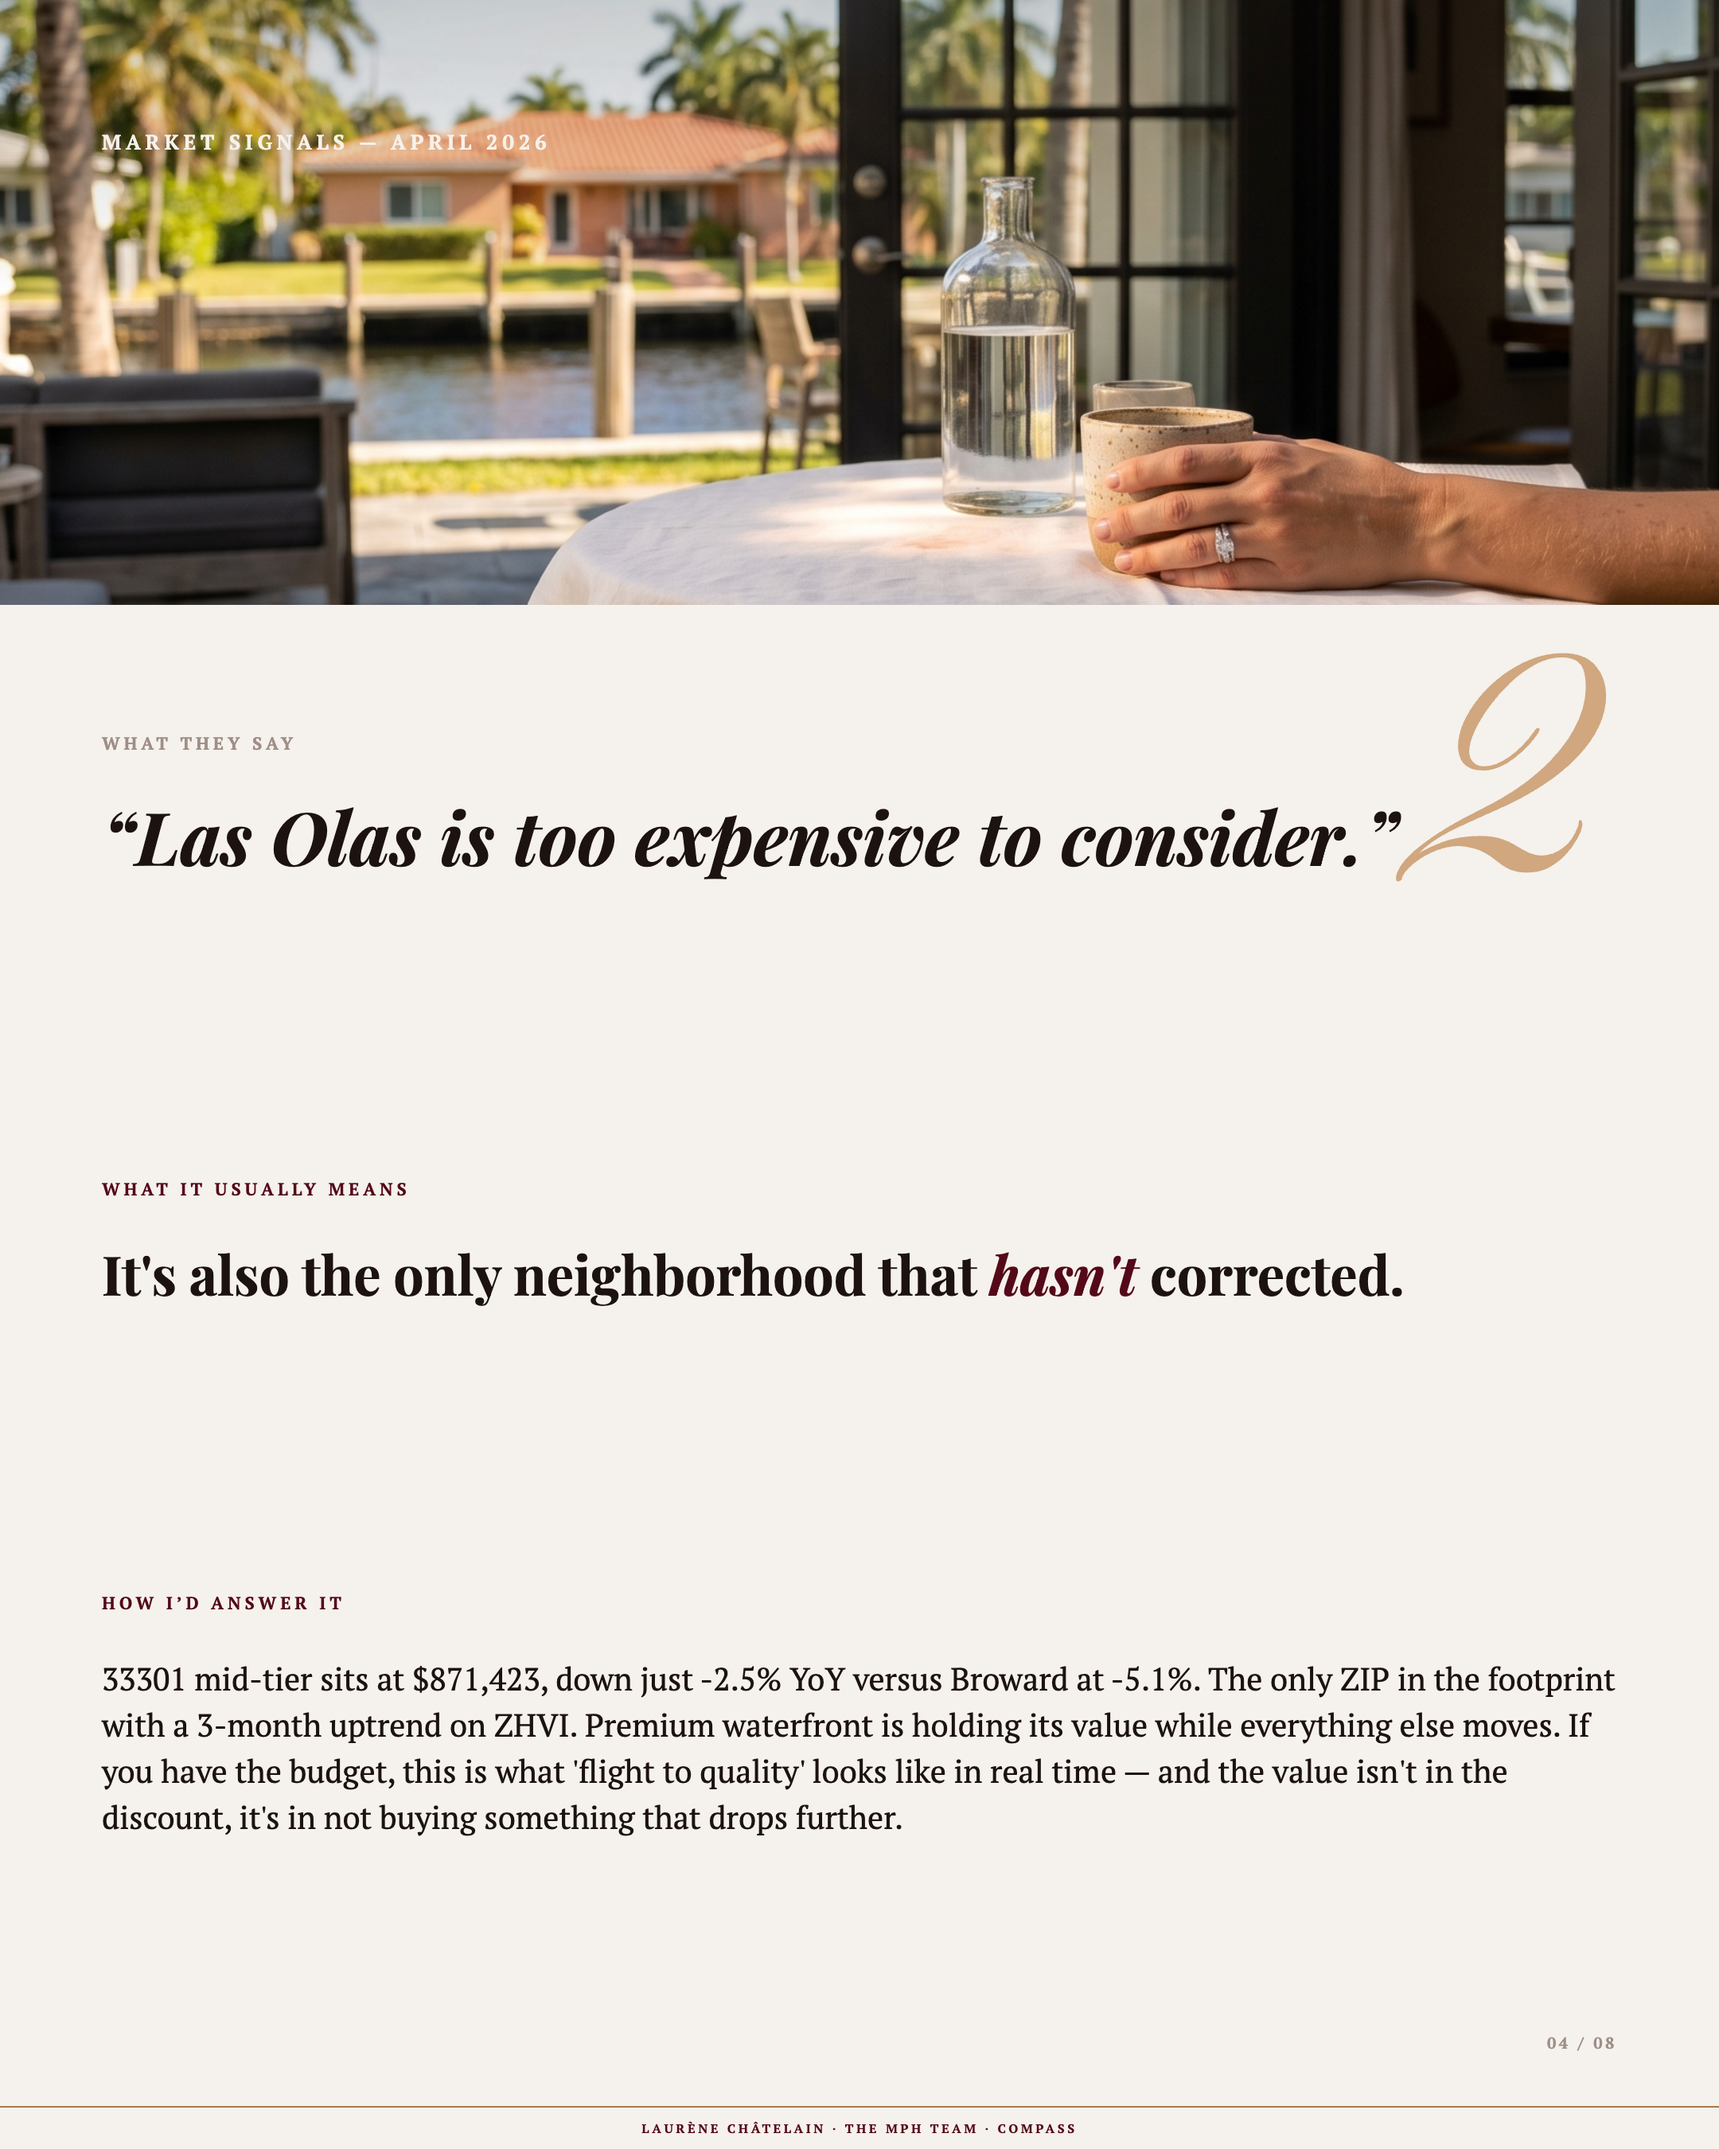
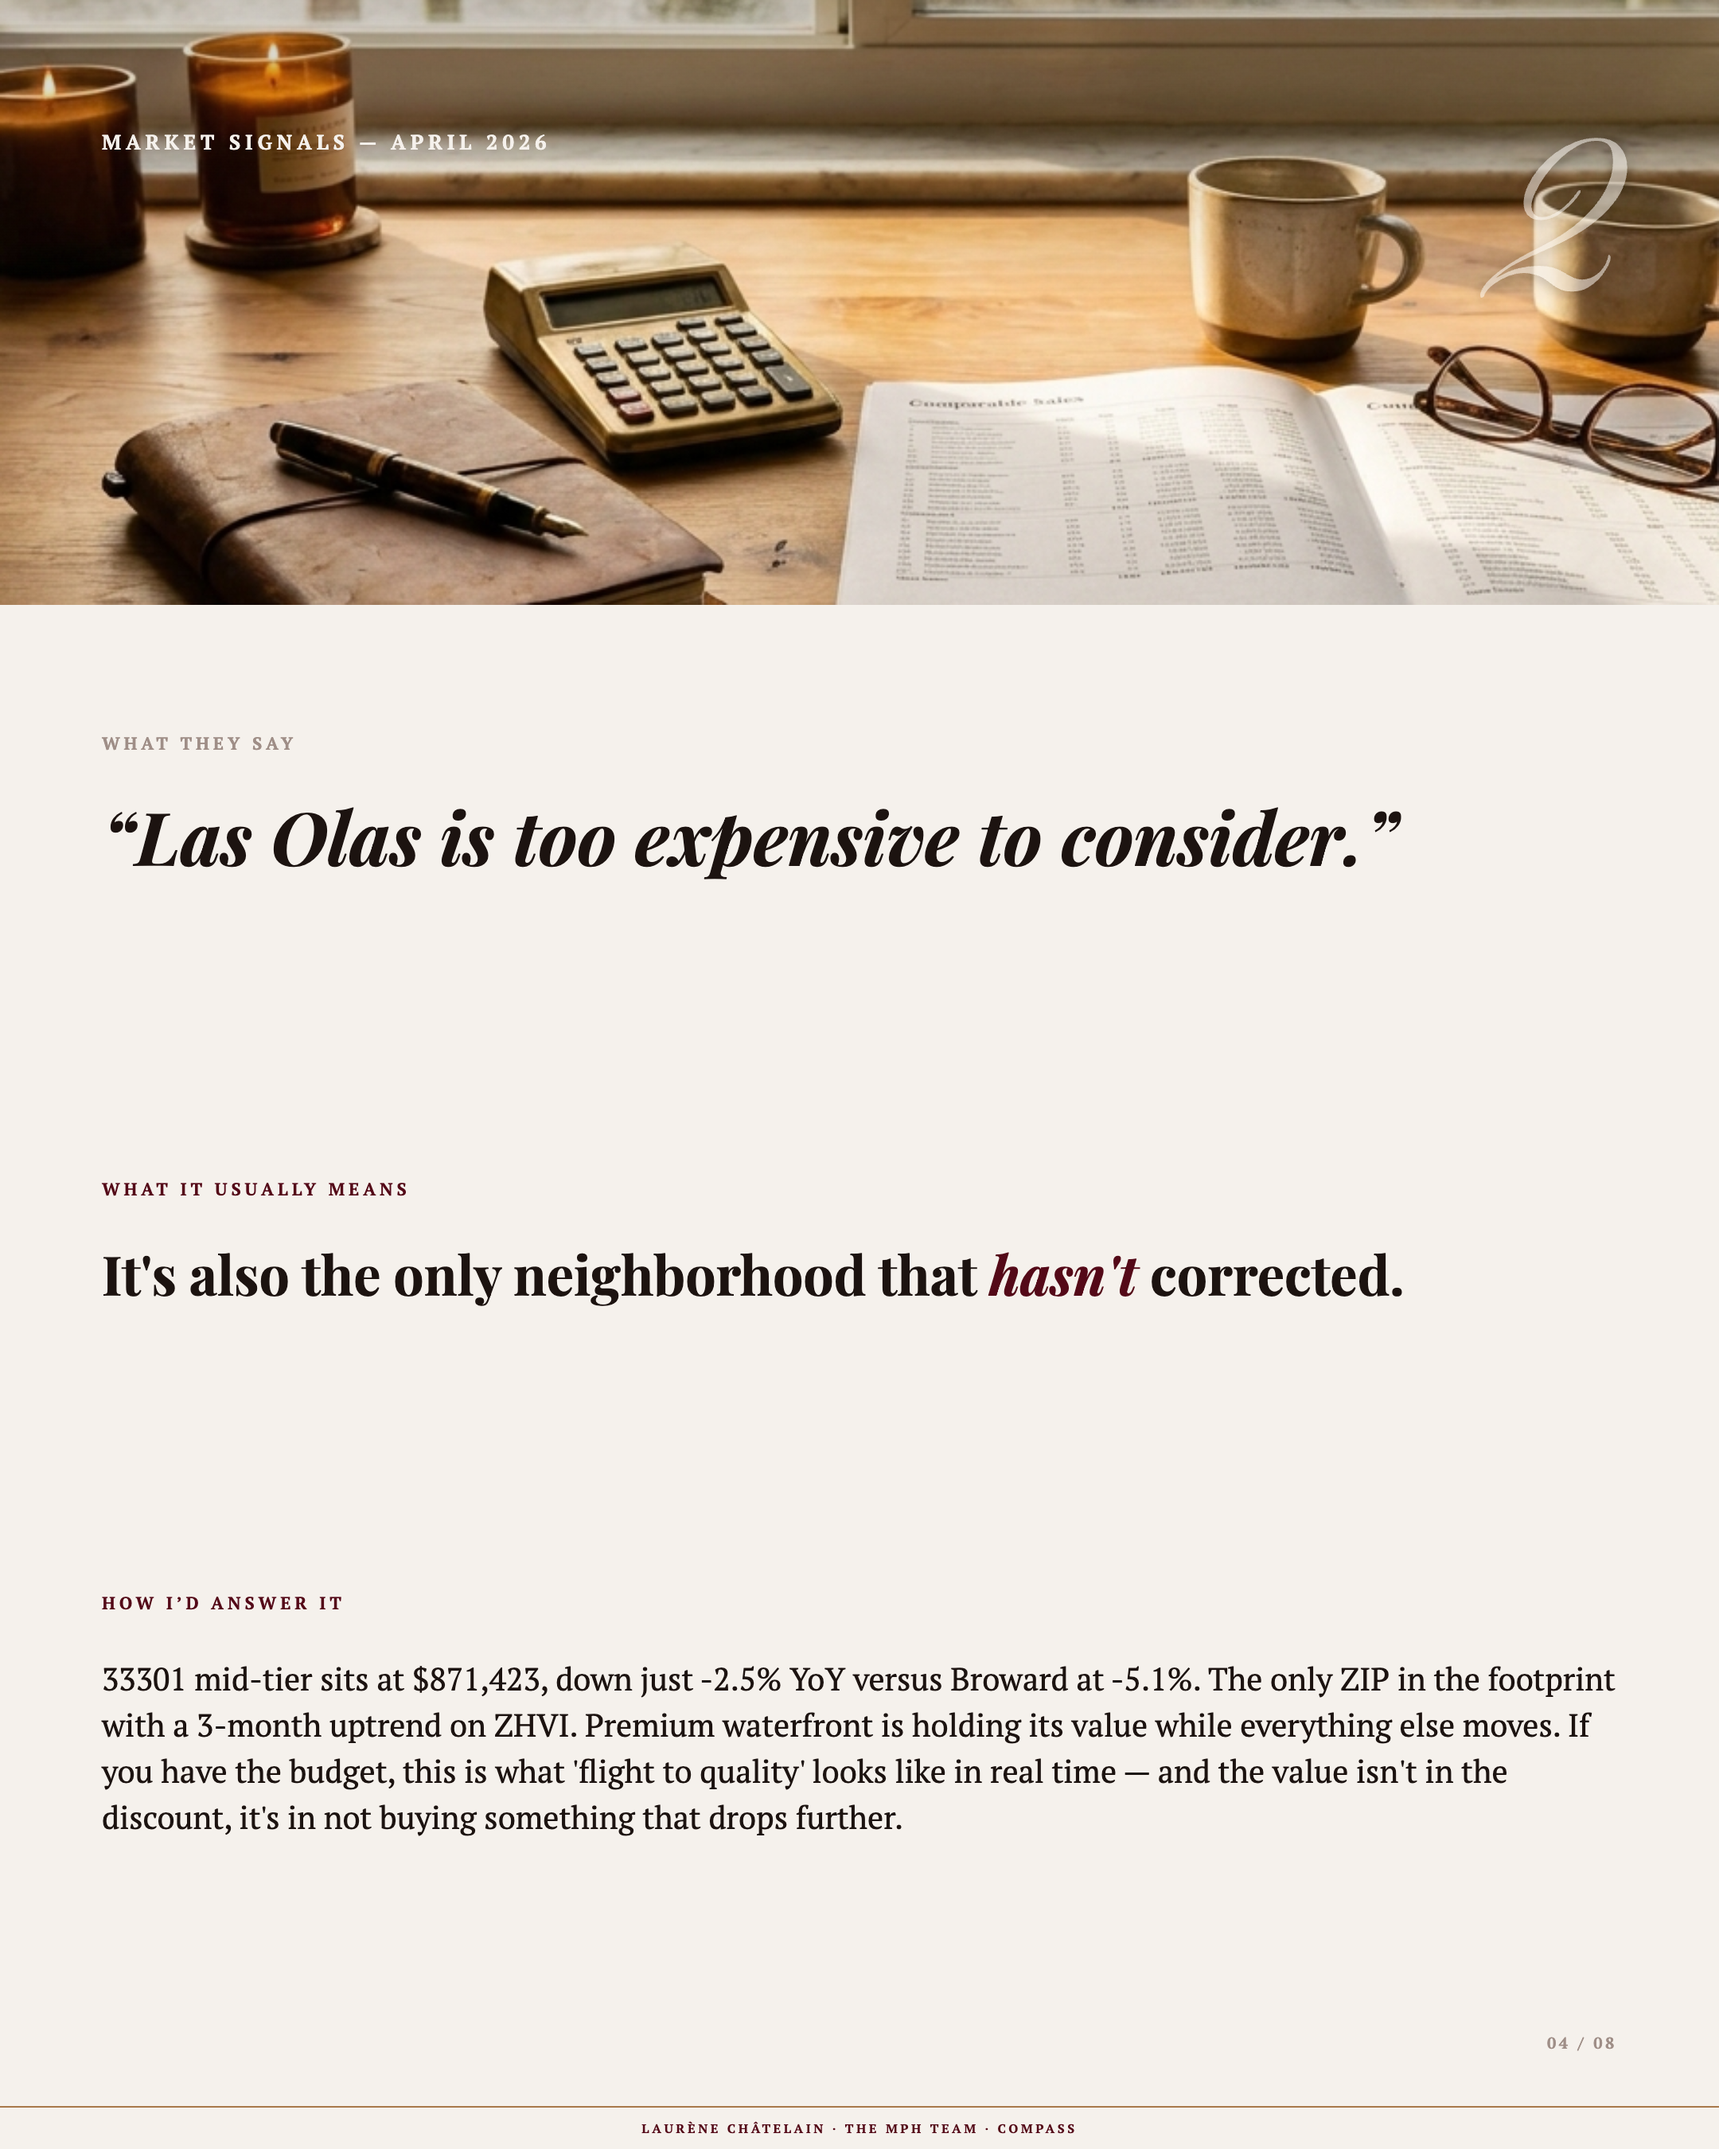
Re-render W21 Tuesday: separate intro photo + medallion fix + closing contrast + face re-roll

Changed region(s): [[0.0, 0.0, 1.0, 0.4044]]

diff --git a/W21-f4265b/tue/index.html b/W21-f4265b/tue/index.html
@@ -152,7 +152,7 @@
 
   <footer class="page-footer">
     <a href="../" class="page-footer__back">&larr; back to W21</a>
-    <div class="page-footer__updated">Updated May 20, 2026 5:14 PM</div>
+    <div class="page-footer__updated">Updated May 20, 2026 5:41 PM</div>
   </footer>
 
   <script>

diff --git a/W21-f4265b/index.html b/W21-f4265b/index.html
@@ -116,7 +116,7 @@
 
   <footer class="page-footer">
     <div class="page-footer__token">W21 &middot; f4265b</div>
-    <div class="page-footer__updated">Updated May 20, 2026 5:14 PM</div>
+    <div class="page-footer__updated">Updated May 20, 2026 5:41 PM</div>
   </footer>
 </body>
 </html>
